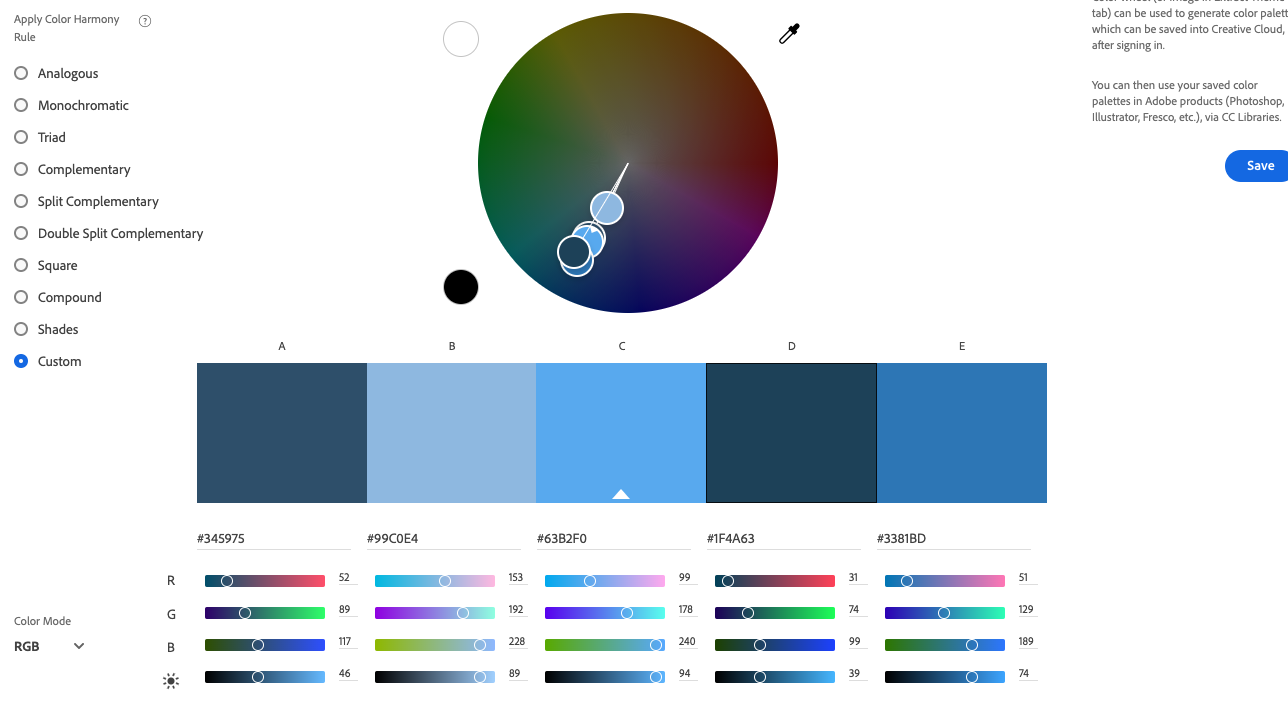
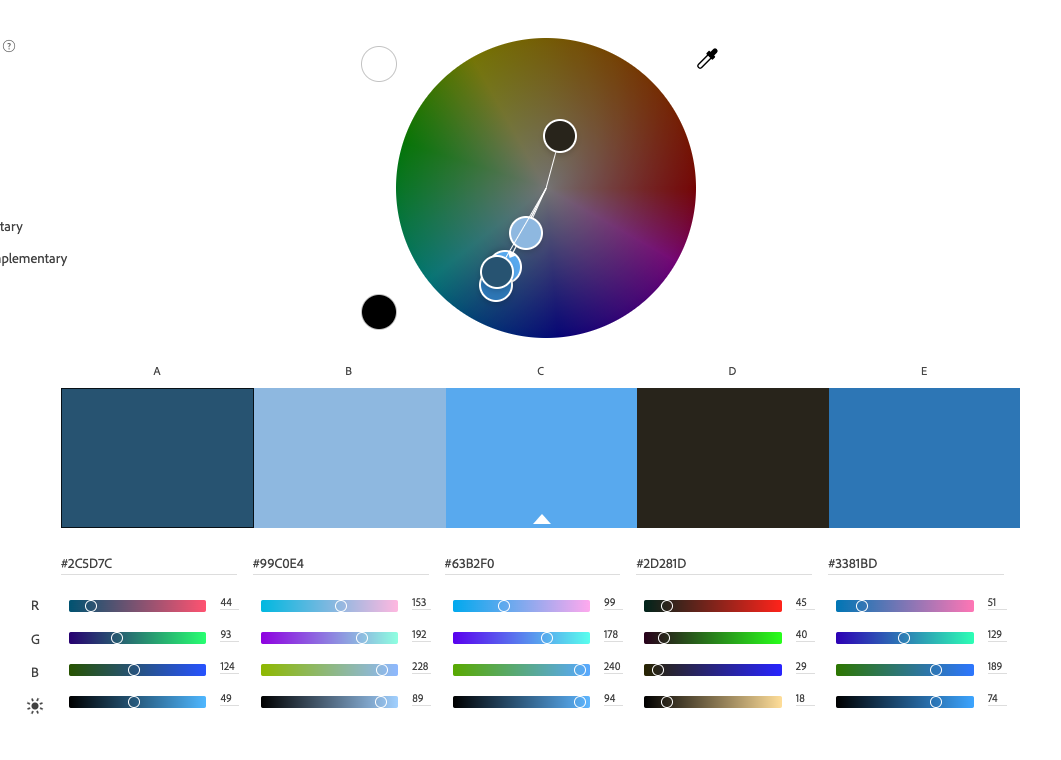
Trial updated intro background color.

diff --git a/styles.css b/styles.css
@@ -136,7 +136,8 @@ header #intro {
     align-items: center;
     padding: 2em 0;
     margin: 10em 0 5em 0;
-    background-color: #193e539e;
+    /*background-color: #193e539e; */
+    background-color: #b7ac97ad;
     border-radius: 1em;
     width: 50%;
     margin-left: 25%;
@@ -151,10 +152,10 @@ header #intro .content {
 header #intro h1 {
     font-size: 3.5em;
     margin: 0.2em 0 0 0;
-    color: whitesmoke;
+    color:#2D281D;
 }
 header #intro h2 {
-    color: whitesmoke;
+    color:#2D281D;
 }
 header #intro button {
     background-color: whitesmoke;

diff --git a/index.html b/index.html
@@ -152,7 +152,7 @@
                 <h1>Contact Me</h1>
             </div>
             <div class="content">
-                <h3>Email: <a href="mailto:katecrowgey@gmail.com">katecrowgey@gmail.com</a> | Phone: +1 828-338-8452</h3>
+                <h3>Email: <a href="mailto:kctala.melody@gmail.com">kctala.melody@gmail.com</a> | Phone: +1 828-338-8452</h3>
             </div>
             <form action="mailto:katecrowgey@gmail.com" method="post">
                 <label for="name">Name *:</label>
